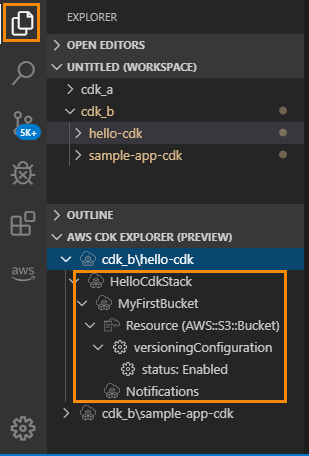
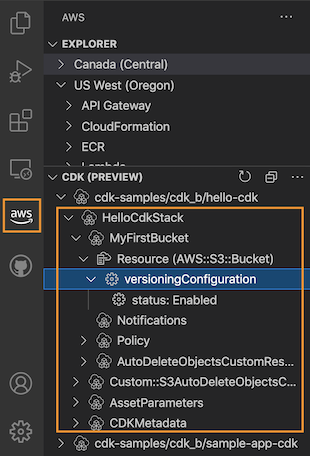
UI: move CDK Explorer to the AWS panel
Establish the AWS icon as the single place for all AWS-related
resources--both remote and local.

diff --git a/README.quickstart.vscode.md b/README.quickstart.vscode.md
@@ -215,7 +215,7 @@ palette_, available by selecting _View > Command Palette_ or by typing
 | `AWS: Create Lambda SAM Application`                 | Generates code files for a new AWS serverless Lambda application. For more information, see [Creating a Serverless Application](https://docs.aws.amazon.com/console/toolkit-for-vscode/create-sam) in the user guide.                                                                                          |
 | `AWS: Deploy SAM Application`                        | Deploys a local serverless application to an AWS account. For more information, see [Deploying a Serverless Application](https://docs.aws.amazon.com/console/toolkit-for-vscode/deploy-serverless-app) in the user guide.                                                                                      |
 | `AWS: Detect SAM CLI`                                | Checks whether the Toolkit can communicate correctly with the AWS SAM CLI that is installed.                                                                                                                                                                                                                   |
-| `AWS: Focus on Explorer View`                        | Opens the **AWS: Explorer** Side Bar, which we will simply call [_the **AWS Explorer**_](#ui-components-aws-expl), and then moves the focus there.                                                                                                                                                             |
+| `AWS: Focus on Explorer View`                        | Opens the **AWS** panel and focuses the [_Explorer_](#ui-components-aws-expl).                                                                                                                                                                                                                                 |
 | `AWS: Hide region from the Explorer`                 | Hides an AWS Region from the **AWS Explorer**.                                                                                                                                                                                                                                                                 |
 | `AWS: Publish state machine to Step Functions`       | Creates or updates a remote state machine using the local Amazon States Language definition file. For more information, see [Work With State Machines in VS Code](https://docs.aws.amazon.com/toolkit-for-vscode/latest/userguide/bulding-stepfunctions.html#starting-stepfunctions) in the user guide.        |
 | `AWS: Publish a Systems Manager Document`            | Creates a new document or updates an existing document in your account using the currently open document.                                                                                                                                                                                                      |
@@ -230,7 +230,7 @@ palette_, available by selecting _View > Command Palette_ or by typing
 | `AWS: View CDK Documentation`                        | Opens the [user guide](https://docs.aws.amazon.com/console/toolkit-for-vscode/aws-cdk-apps) for the CDK portion of the Toolkit.                                                                                                                                                                                |
 | `AWS: View Toolkit Documentation`                    | Opens the [user guide](https://docs.aws.amazon.com/console/toolkit-for-vscode/welcome) for the Toolkit.                                                                                                                                                                                                        |
 | `AWS: View Source on GitHub`                         | Opens the [GitHub repository](https://github.com/aws/aws-toolkit-vscode) for the Toolkit.                                                                                                                                                                                                                      |
-| `Explorer: Focus on AWS CDK Explorer (Preview) View` | Opens the **Explorer** Side Bar and expands the **AWS CDK Explorer (Preview)** View.                                                                                                                                                                                                                           |
+| `AWS: Focus on CDK (Preview) View`                   | Opens the **AWS** panel and focuses the **CDK** view.                                                                                                                                                                                                                                                          |
 
 { [Return to Top](#top) }
 
